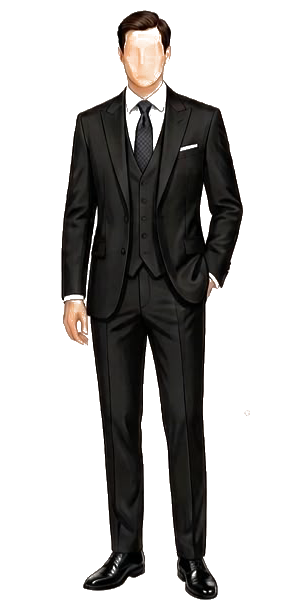
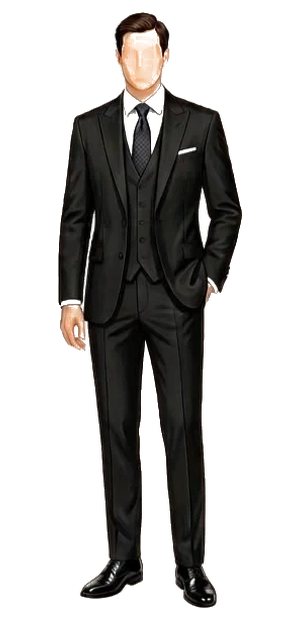
feat: velas con fuego vivo, esfera verde y negra, más movimiento y figuras premium

diff --git a/index.html b/index.html
@@ -2499,7 +2499,7 @@ body > footer{padding-bottom:120px !important}
   filter:drop-shadow(0 6px 14px rgba(18,18,18,.22));
   transform-origin:50% 100%;
   animation:paDcSway 5.2s ease-in-out infinite;will-change:transform}
-.pa-dc-fig:nth-child(2) img{animation-delay:-2.6s}
+.pa-dc-fig:nth-child(2) img{animation-delay:0s}
 @keyframes paDcSway{
   0%,100%{transform:translateY(0) rotate(-1.4deg)}
   50%    {transform:translateY(-8px) rotate(1.4deg)}
@@ -3352,13 +3352,13 @@ body::before{background-size:cover !important;background-position:center !import
 
 /* ═════ BRILLO ÓPTICO · negro, verde y oro ═════ */
 .kx-flare{position:absolute;left:var(--x,50%);top:var(--y,0);width:0;height:0;z-index:5;pointer-events:none;display:block;-webkit-text-fill-color:initial}
-.kx-flare b{position:absolute;left:0;top:0;display:block;width:calc(170px*var(--s,1));height:calc(170px*var(--s,1));
-  margin:calc(-85px*var(--s,1)) 0 0 calc(-85px*var(--s,1));background:url(assets/flare.webp) center/contain no-repeat;
-  opacity:.2;transform:scale(.7);animation:kxBloom var(--dur,9s) cubic-bezier(.45,0,.3,1) infinite;animation-delay:var(--del,0s)}
-.kx-flare.is-mini b{background-image:url(assets/flare-mini.webp);width:calc(58px*var(--s,1));height:calc(58px*var(--s,1));
-  margin:calc(-29px*var(--s,1)) 0 0 calc(-29px*var(--s,1));opacity:0;animation-name:kxTwinkle}
-@keyframes kxBloom{0%,36%{opacity:.2;transform:scale(.7)}48%{opacity:.95;transform:scale(1.06)}56%{opacity:.78;transform:scale(1)}74%,100%{opacity:.2;transform:scale(.7)}}
-@keyframes kxTwinkle{0%,42%{opacity:0;transform:scale(.3) rotate(-18deg)}51%{opacity:1;transform:scale(1) rotate(0)}62%,100%{opacity:0;transform:scale(.3) rotate(16deg)}}
+.kx-flare b{position:absolute;left:0;top:0;display:block;width:calc(220px*var(--s,1));height:calc(220px*var(--s,1));
+  margin:calc(-110px*var(--s,1)) 0 0 calc(-110px*var(--s,1));background:url(assets/flare.webp) center/contain no-repeat;
+  opacity:.5;transform:scale(.76);animation:kxBloom var(--dur,9s) cubic-bezier(.45,0,.3,1) infinite;animation-delay:var(--del,0s)}
+.kx-flare.is-mini b{background-image:url(assets/flare-mini.webp);width:calc(84px*var(--s,1));height:calc(84px*var(--s,1));
+  margin:calc(-42px*var(--s,1)) 0 0 calc(-42px*var(--s,1));opacity:0;animation-name:kxTwinkle}
+@keyframes kxBloom{0%,28%{opacity:.5;transform:scale(.76)}44%{opacity:1;transform:scale(1.14)}58%{opacity:.92;transform:scale(1)}78%,100%{opacity:.5;transform:scale(.76)}}
+@keyframes kxTwinkle{0%,26%{opacity:0;transform:scale(.3) rotate(-18deg)}42%{opacity:1;transform:scale(1.12) rotate(0)}56%{opacity:.95;transform:scale(1) rotate(5deg)}74%,100%{opacity:0;transform:scale(.3) rotate(16deg)}}
 
 .kx-card{border-color:transparent !important;-webkit-backdrop-filter:none !important;backdrop-filter:none !important}
 .kx-halo,.kx-rim,.kx-line,.kx-sheen{position:absolute;pointer-events:none;display:block;border-radius:inherit}
@@ -3445,7 +3445,7 @@ h2.foil-text,.ft-nms.foil-text{position:relative}
 .gm-ball{overflow:hidden;background:#06140D;box-shadow:0 0 0 1.5px #8C6A1C,0 0 0 2.5px #F2DC8F,0 0 0 3.5px #6E5216}
 .gm-ball canvas{position:absolute;inset:0;display:block;width:100%;height:100%}
 .gm-gloss{position:absolute;inset:0;border-radius:50%;pointer-events:none;
-  background:radial-gradient(circle at 33% 26%,rgba(255,252,235,.34),rgba(255,252,235,.05) 25%,transparent 43%),radial-gradient(circle at 50% 50%,transparent 62%,rgba(0,8,4,.5) 100%)}
+  background:radial-gradient(circle at 33% 26%,rgba(214,255,232,.2),rgba(214,255,232,.03) 26%,transparent 44%),radial-gradient(circle at 62% 66%,transparent 34%,rgba(0,4,2,.62) 100%)}
 .gm-orbit{position:absolute;left:31px;top:41px;width:0;height:0;opacity:0;transition:opacity 1.1s ease;animation:gmOrbita 16s linear infinite;animation-play-state:paused}
 .gm-orbit i{position:absolute;left:-1.5px;top:-1.5px;width:3px;height:3px;border-radius:50%;background:#FFF3C4;box-shadow:0 0 5px 1px rgba(212,175,55,.8);
   transform:rotate(var(--a)) translateY(var(--o));animation:gmEspejo 2.8s ease-in-out infinite;animation-delay:var(--e)}
@@ -3469,6 +3469,52 @@ h2.foil-text,.ft-nms.foil-text{position:relative}
   #musicBtn .gm-orbit,#musicBtn .gm-orbit i,#musicBtn .gm-glow,#musicBtn .gm-spark,#musicBtn .gm-feather{animation:none !important}
   .kx-flare b{opacity:.6;transform:none}.kx-flare.is-mini b{opacity:.5}.kit-head{display:none}
   .gm-feather,.it-time,.it-list .it-dot{transition:none}
+}
+
+/* ═════ VELAS VIVAS · footer ═════ */
+.vl,.vl-ch{position:absolute;pointer-events:none;display:block}
+.vl{left:var(--x);top:var(--y);width:var(--w);aspect-ratio:1;translate:-50% -50%}
+.vl>span{position:absolute;display:block}
+.vl-halo{left:-175%;top:-175%;width:450%;height:450%;border-radius:50%;background:radial-gradient(circle,rgba(255,198,116,.46) 0,rgba(255,164,74,.2) 27%,rgba(255,140,50,.06) 50%,transparent 69%)}
+.vl-disc{inset:-5%;border-radius:50%;background:radial-gradient(circle,rgba(255,246,220,.76) 0,rgba(255,228,176,.5) 58%,rgba(255,216,152,.66) 85%,transparent 100%)}
+.vl-cera{left:-62%;top:64%;width:224%;height:205%;border-radius:50%;background:radial-gradient(ellipse at 50% 14%,rgba(255,178,96,.46),rgba(255,150,70,.13) 50%,transparent 72%)}
+.vl-fl{left:-4%;bottom:30%;width:108%;height:132%;transform-origin:50% 92%;background:url(assets/llama.webp) center/100% 100% no-repeat}
+.vl-nu{left:21%;bottom:33%;width:58%;height:80%;transform-origin:50% 92%;background:url(assets/llama-nucleo.webp) center/100% 100% no-repeat}
+.vl .kx-flare{left:50%;top:-2%}
+.vl-ch{left:var(--x);top:var(--y);width:2px;height:2px;border-radius:50%;background:#FFE9B0;box-shadow:0 0 3px 1px rgba(255,170,70,.85);opacity:0;
+  animation:vlChispa var(--dur,6s) cubic-bezier(.3,.1,.5,1) infinite;animation-delay:var(--del,0s)}
+@keyframes vlChispa{0%{opacity:0;transform:translate3d(0,0,0) scale(1)}10%{opacity:1}42%{opacity:.8;transform:translate3d(var(--m),calc(var(--up)*.5),0) scale(.8)}72%,100%{opacity:0;transform:translate3d(var(--dx),var(--up),0) scale(.25)}}
+#footer.vl-off .vl-ch,#footer.kx-off .vl-ch{animation:none}
+@media (prefers-reduced-motion:reduce){.vl-ch{display:none}}
+
+/* Velas PNG: levitación y calor */
+.vel-w{isolation:isolate}
+.vel-w .vel{position:relative;z-index:1;filter:none}
+.vel-w .vl{z-index:2}.vel-w .kx-flare{z-index:3}
+.vl-png .vl-disc{display:none}
+.vl-png .vl-halo{left:-260%;top:-260%;width:620%;height:620%;background:radial-gradient(circle,rgba(255,206,122,.62) 0,rgba(255,164,70,.26) 26%,rgba(255,140,50,.07) 50%,transparent 68%)}
+.vl-png .vl-cera{left:-120%;top:70%;width:340%;height:340%;background:radial-gradient(ellipse at 50% 12%,rgba(255,190,104,.5),rgba(255,160,76,.14) 48%,transparent 70%)}
+.vl-png .vl-fl{left:12%;bottom:18%;width:76%;height:168%}
+.vl-png .vl-nu{left:30%;bottom:20%;width:40%;height:96%}
+.vel-calor{position:absolute;z-index:-1;left:-34%;right:-34%;top:-30%;bottom:-18%;pointer-events:none;border-radius:50%;
+  background:radial-gradient(ellipse 50% 48% at 50% 40%,rgba(255,176,84,.36) 0,rgba(255,146,60,.17) 42%,rgba(255,130,50,.05) 68%,transparent 100%)}
+
+/* Más vida en adornos y fondos */
+@media (prefers-reduced-motion:no-preference){
+  .vel-w{animation:velLevita 6.4s ease-in-out infinite alternate}
+  @keyframes velLevita{from{translate:0 5px;rotate:-.8deg}to{translate:0 -8px;rotate:.8deg}}
+  .fx-bg i{animation-name:fxDrift2;animation-duration:17s}
+  @keyframes fxDrift2{from{transform:translate3d(-3.6%,-2.4%,0) scale(1.03) rotate(-.7deg)}to{transform:translate3d(3.6%,2.4%,0) scale(1.11) rotate(.7deg)}}
+  .orn-float{animation-name:ornFloat2;animation-duration:5.6s;animation-timing-function:ease-in-out}
+  @keyframes ornFloat2{from{translate:-3px -11px;rotate:-2.6deg}to{translate:3px 11px;rotate:2.6deg}}
+  .orn-leaf{animation-name:ornLeaf2;animation-duration:4.8s}
+  @keyframes ornLeaf2{from{translate:-7px -15px;rotate:-10deg}to{translate:7px 15px;rotate:10deg}}
+  .orn-soft{animation:ornSoft2 8.5s ease-in-out infinite alternate}
+  .orn-soft:nth-of-type(2n){animation-delay:-3.4s}
+  @keyframes ornSoft2{from{translate:-7px -13px;rotate:-3.4deg}to{translate:7px 13px;rotate:3.4deg}}
+  .gui{animation:guiMece 6.8s ease-in-out infinite alternate}
+  @keyframes guiMece{from{translate:-50% -4px;rotate:-.9deg}to{translate:-50% 4px;rotate:.9deg}}
+  .kx-off .orn-soft,.kx-off .gui,.kx-off .vel-w{animation-play-state:paused}
 }
 </style>
 </head>
@@ -3825,14 +3871,14 @@ h2.foil-text,.ft-nms.foil-text{position:relative}
 
   <div class="pa-dc-figs">
     <figure class="pa-dc-fig">
-      <img src="caballero.png" alt="Caballero con traje formal" width="300" height="610" decoding="async">
+      <img src="caballero.png?v=2" alt="Caballero con traje formal" width="300" height="620" decoding="async">
       <figcaption>
         <span class="pa-dc-fig-label">Caballeros</span>
         <span class="pa-dc-fig-sub">Traje formal</span>
       </figcaption>
     </figure>
     <figure class="pa-dc-fig">
-      <img src="dama.png" alt="Dama con vestido formal" width="248" height="604" decoding="async">
+      <img src="dama.png?v=2" alt="Dama con vestido formal" width="300" height="620" decoding="async">
       <figcaption>
         <span class="pa-dc-fig-label">Damas</span>
         <span class="pa-dc-fig-sub">Vestido largo en tonos de jardín</span>
@@ -6203,7 +6249,7 @@ function initPadrinos(){
     f.className = 'kx-flare' + (mini ? ' is-mini' : '');
     f.setAttribute('aria-hidden', 'true');
     f.style.setProperty('--x', x); f.style.setProperty('--y', y); f.style.setProperty('--s', s || 1);
-    var dur = mini ? 7 + (n % 3) * 1.1 : 10 + (n % 3) * 1.3;
+    var dur = mini ? 5 + (n % 3) * .8 : 7 + (n % 3);
     f.style.setProperty('--dur', dur + 's');
     f.style.setProperty('--del', (-((n * .618034) % 1) * dur).toFixed(2) + 's');
     f.appendChild(b); p.appendChild(f); n++;
@@ -6222,21 +6268,21 @@ function initPadrinos(){
     capa(c, 'kx-halo'); capa(c, 'kx-sheen', true, k);
     if(!c.classList.contains('rsvp-card')) capa(c, 'kx-line');
     capa(c, 'kx-rim', true, k);
-    flare(c, '18px', '10px', .62);
-    flare(c, 'calc(100% - 18px)', 'calc(100% - 10px)', .8, true);
+    flare(c, '18px', '10px', .82);
+    flare(c, 'calc(100% - 18px)', 'calc(100% - 10px)', 1, true);
   }
   document.querySelectorAll('.loc-card,.story-card,.fam-grid,.fam-god,.cl-card,.rsvp-card,.gx-card,.rsvp-notice,.pa-hs-hotel').forEach(deco);
   /* Las tarjetas de hotel se crean después: se decoran al aparecer */
   var hsL = document.getElementById('paHsList');
   if(hsL) new MutationObserver(function(){ hsL.querySelectorAll('.pa-hs-hotel').forEach(function(c, i){ deco(c, i + 20); }); }).observe(hsL, { childList: true, subtree: true });
   document.querySelectorAll('h2.foil-text,.ft-nms.foil-text').forEach(function(t){
-    flare(t, '.72em', '.46em', .62, true);
-    flare(t, 'calc(100% - .55em)', '.52em', .4, true);
+    flare(t, '.72em', '.46em', .9, true);
+    flare(t, 'calc(100% - .55em)', '.52em', .62, true);
   });
   function nombres(){
     [['hN1', -.36], ['hN2', .38]].forEach(function(q){
       var e = document.getElementById(q[0]), w = e && e.closest('.h-name-wrap');
-      if(w && !w.querySelector('.kx-flare')) flare(w, 'calc(50% + ' + (e.offsetWidth * q[1]).toFixed(0) + 'px)', '34%', .7, true);
+      if(w && !w.querySelector('.kx-flare')) flare(w, 'calc(50% + ' + (e.offsetWidth * q[1]).toFixed(0) + 'px)', '34%', .95, true);
     });
   }
   if(document.fonts && document.fonts.ready) document.fonts.ready.then(nombres); else nombres();
@@ -6254,13 +6300,13 @@ function initPadrinos(){
     s.style.webkitMaskImage = s.style.maskImage = 'url(' + src + ')';
     i.style.setProperty('--del', (-((k * .618034) % 1) * 13).toFixed(2) + 's');
     s.appendChild(i); c.appendChild(s);
-    if(k % 2 === 0) flare(c, LUZ[m[1]][0], LUZ[m[1]][1], .72, true);
+    if(k % 2 === 0) flare(c, LUZ[m[1]][0], LUZ[m[1]][1], .95, true);
     im.after(c); glos.push(c);
   });
   document.querySelectorAll('img.vel').forEach(function(v){
     var w = document.createElement('span'); w.className = 'vel-w';
     v.parentNode.insertBefore(w, v); w.appendChild(v);
-    flare(w, '38%', '10%', .7, true);
+    flare(w, '38%', '10%', .95, true);
   });
 
   /* Pausa lo que no se ve */
@@ -6369,7 +6415,7 @@ function initPadrinos(){
     function azar(k){ var x = Math.sin(k * 127.1 + 311.7) * 43758.5453; return x - Math.floor(x); }
     var filas = [], total = 0, r, c;
     for(r = 0; r < ROWS; r++){
-      var lat = ((r + .5) / ROWS - .5) * PI, cols = Math.max(5, Math.round(ROWS * 1.7 * Math.cos(lat)));
+      var lat = ((r + .5) / ROWS - .5) * PI, cols = Math.max(5, Math.round(ROWS * 2 * Math.cos(lat)));
       filas.push({ lat: lat, cl: Math.cos(lat), sl: Math.sin(lat), cols: cols, base: total, of: r % 2 ? .5 : 0, par: r % 2 });
       total += cols * 2;
     }
@@ -6390,26 +6436,28 @@ function initPadrinos(){
       for(var k = 0; k < ROWS; k++){
         var w = filas[k];
         for(var e = 0; e < w.cols; e++) for(var tr = 0; tr < 2; tr++){
-          var id = w.base + e * 2 + tr, l = (e + .5 + (tr ? .23 : -.23) - w.of) / w.cols * TAU + t;
-          var jx = (a1[id] - .5) * .3, jy = (a2[id] - .5) * .3 + (tr ? .07 : -.07);
+          var id = w.base + e * 2 + tr, l = (e + .5 - w.of) / w.cols * TAU + t;
+          var jx = (a1[id] - .5) * .24, jy = (a2[id] - .5) * .24;
           var fx = w.cl * Math.sin(l) + jx, fy0 = w.sl + jy, fz0 = w.cl * Math.cos(l);
           var fy = fy0 * cB + fz0 * sB, fz = -fy0 * sB + fz0 * cB, vx = fx * cT + fy * sT, vy = -fx * sT + fy * cT;
           var d1 = Math.max(0, vx * L1[0] + vy * L1[1] + fz * L1[2]), d2 = Math.max(0, vx * L2[0] + vy * L2[1] + fz * L2[2]), d3 = Math.max(0, vx * L3[0] + vy * L3[1] + fz * L3[2]);
-          var s1 = Math.pow(d1, 30) * 1.45, s2 = Math.pow(d2, 26) * .95, s3 = Math.pow(d3, 12) * .42, am = .2 + a3[id] * a3[id] * .72;
-          R[id] = am * 14 + s1 * 255 + s2 * 240 + s3 * 30;
-          G[id] = am * 92 + s1 * 244 + s2 * 186 + s3 * 118;
-          B[id] = am * 52 + s1 * 196 + s2 * 70 + s3 * 66;
+          var s1 = Math.pow(d1, 34) * 1.05, s2 = Math.pow(d2, 30) * .62, s3 = Math.pow(d3, 14) * .2, am = .5 + a3[id] * .72;
+          var mez = .5 + .5 * Math.sin(l + w.lat * 1.7 + .6); mez = mez * mez * (3 - 2 * mez);
+          R[id] = am * (3 + mez * 20) + s1 * 178 + s2 * 62 + s3 * 16;
+          G[id] = am * (7 + mez * 112) + s1 * 238 + s2 * 188 + s3 * 92;
+          B[id] = am * (5 + mez * 66) + s1 * 196 + s2 * 126 + s3 * 58;
         }
       }
       var giro = t / TAU;
       for(var m = 0; m < N; m++){
         var h = filas[RI[m]], u = LO[m] - giro; u -= Math.floor(u);
         var cc = u * h.cols + h.of, ci = Math.floor(cc), fu = cc - ci, fv = FV[m]; ci = ci % h.cols;
-        var alt = (ci + h.par) % 2, tri = alt ? (fu + fv > 1 ? 1 : 0) : (fu > fv ? 1 : 0), dg = alt ? Math.abs(fu + fv - 1) : Math.abs(fu - fv);
+        var tri = 0, dg = 1;
         var ed = Math.min(1, Math.min(Math.min(fu, 1 - fu), Math.min(fv, 1 - fv), dg * .72) / .055), id2 = h.base + ci * 2 + tri, g = SH[m], o = I[m], f = 1 - ed;
-        D[o] = Math.min(255, R[id2] * g + CA[m] * 16 + f * 92 + 3);
-        D[o + 1] = Math.min(255, G[id2] * g + CA[m] * 76 + f * 72 + 10);
-        D[o + 2] = Math.min(255, B[id2] * g + CA[m] * 42 + f * 20 + 6);
+        g *= 1 - f * .62;
+        D[o] = Math.min(255, R[id2] * g + CA[m] * 3 + 2);
+        D[o + 1] = Math.min(255, G[id2] * g + CA[m] * 26 + 5);
+        D[o + 2] = Math.min(255, B[id2] * g + CA[m] * 16 + 4);
         D[o + 3] = AL[m];
       }
       ctx.putImageData(img, 0, 0);
@@ -6417,7 +6465,7 @@ function initPadrinos(){
   }
   var btn = document.getElementById('musicBtn'), cv = document.getElementById('gmCanvas');
   if(btn && cv){
-    var pinta = crearMotorGema(cv, 124, 11);
+    var pinta = crearMotorGema(cv, 124, 14);
     if(pinta){
       var TAU = Math.PI * 2, th = .6, vel = 0, obj = 0, lastT = 0, rf = 0, VEL = .82, visible = true;
       function loopG(now){
@@ -6440,6 +6488,90 @@ function initPadrinos(){
       sync();
     }
   }
+})();
+</script>
+<script>
+/* ═════ VELAS VIVAS: cada flama respira con su propio ruido y comparten la misma corriente de aire ═════ */
+(function(){
+  var foot = document.getElementById('footer'), capa = foot && foot.querySelector('.fx-bg i');
+  if(!capa) return;
+  var RM = window.matchMedia && matchMedia('(prefers-reduced-motion: reduce)').matches;
+  /* Posiciones medidas sobre las luces reales de la foto: x, y, ancho, con flama */
+  var P = [[31.6,72.4,6.6,1],[70.1,74.8,5.6,1],[50.3,76.9,4.8,1],[12.3,74.3,5.2,1],[21.8,69.3,5.2,1],[67.7,66.6,5.4,1],[34.6,65.7,5.6,1],
+           [58,67.3,5.4,0],[81,68.7,5.4,0],[53.1,62.2,5.8,0],[40.2,61.2,5.4,0],[60,61.3,5.6,0]];
+  function hija(p, c){ var e = document.createElement('span'); e.className = c; p.appendChild(e); return e; }
+  function crea(q, k, padre, png){
+    var v = document.createElement('span'); v.className = png ? 'vl vl-png' : 'vl';
+    v.style.setProperty('--x', q[0] + '%'); v.style.setProperty('--y', q[1] + '%'); v.style.setProperty('--w', q[2] + '%');
+    var o = { s: k * 7.31 + 1.7, r: q[0] / 100, halo: hija(v, 'vl-halo'), disc: hija(v, 'vl-disc'), f: q[3], k: png ? .42 : 1, host: png ? padre : foot };
+    if(q[3]){ o.cera = hija(v, 'vl-cera'); o.fl = hija(v, 'vl-fl'); o.nu = hija(v, 'vl-nu'); }
+    if(!png && (k === 0 || k === 1)){
+      var fl = hija(v, 'kx-flare'), b = document.createElement('b'), d = k ? 8.4 : 7;
+      fl.style.setProperty('--s', k ? .62 : .78); fl.style.setProperty('--dur', d + 's');
+      fl.style.setProperty('--del', (-((k * .618034 + .2) % 1) * d).toFixed(2) + 's');
+      fl.appendChild(b);
+    }
+    padre.appendChild(v);
+    return o;
+  }
+  var velas = P.map(function(q, k){ return crea(q, k, capa); }), hosts = [foot];
+  /* Velas PNG: levitan y sus tres flamas dan calor */
+  document.querySelectorAll('.vel-w').forEach(function(w, j){
+    var cal = document.createElement('span'); cal.className = 'vel-calor'; cal.setAttribute('aria-hidden', 'true'); w.insertBefore(cal, w.firstChild);
+    w.style.animationDelay = (-j * 2.3) + 's'; hosts.push(w);
+    var grupo = [[37.9, 11.8, 5.6, 1], [65.3, 32.2, 5.2, 1], [50.6, 51, 4.8, 1]].map(function(q, k){ return crea(q, k + 20 + j * 4, w, true); });
+    grupo[0].calor = cal; velas = velas.concat(grupo);
+  });
+  /* Chispas que suben desde las flamas, nunca juntas */
+  if(!RM) for(var c = 0; c < 8; c++){
+    var q = P[c % 7], ch = document.createElement('span'), dur = 5.4 + (c % 3) * 1.15, lado = c % 2 ? 1 : -1;
+    ch.className = 'vl-ch';
+    ch.style.setProperty('--x', (q[0] + lado * .5) + '%'); ch.style.setProperty('--y', (q[1] - 2.2) + '%');
+    ch.style.setProperty('--up', -(46 + (c * 17) % 44) + 'px');
+    ch.style.setProperty('--m', lado * (4 + c % 4) + 'px'); ch.style.setProperty('--dx', -lado * (3 + (c * 3) % 9) + 'px');
+    ch.style.setProperty('--dur', dur + 's'); ch.style.setProperty('--del', (-((c * .618034) % 1) * dur).toFixed(2) + 's');
+    capa.appendChild(ch);
+  }
+  function azar(n){ var x = Math.sin(n * 127.1 + 311.7) * 43758.5453; return x - Math.floor(x); }
+  function ruido(t){ var i = Math.floor(t), f = t - i; f = f * f * (3 - 2 * f); return azar(i) * (1 - f) + azar(i + 1) * f; }
+  function cuadro(t, todas){
+    for(var k = 0; k < velas.length; k++){
+      var o = velas[k], s = o.s;
+      if(!todas && !o.host.__ve) continue;
+      /* La corriente cruza la mesa: llega antes a un lado que al otro */
+      var ta = t - o.r * .7, base = ruido(ta * .22 + 40), racha = base > .6 ? Math.pow((base - .6) / .4, 2) : 0;
+      var aire = (ruido(ta * .55 + 90) - .5) * 1.5 + racha * (ruido(ta * 2.2 + 12) - .18) * 2.4;
+      var e = .56 * ruido(t * 1.5 + s) + .3 * ruido(t * 4.1 + s * 2) + .14 * ruido(t * 9.3 + s * 3);
+      e = Math.max(.12, (.32 + e * .92) - racha * .24);
+      o.halo.style.opacity = (.3 + e * .62).toFixed(3);
+      o.halo.style.transform = 'translate3d(0,0,0) scale(' + (.9 + e * .18).toFixed(3) + ')';
+      o.disc.style.opacity = (o.f ? .34 + e * .46 : .2 + e * .62).toFixed(3);
+      if(o.f){
+        var lean = (aire + (ruido(t * 2.6 + s * 1.4) - .5) * .9) * o.k;
+        if(o.calor){ o.calor.style.opacity = (.52 + e * .48).toFixed(3); o.calor.style.transform = 'scale(' + (.95 + e * .1).toFixed(3) + ')'; }
+        var sy = .78 + e * .4, sx = 1.12 - e * .24;
+        o.cera.style.opacity = (.34 + e * .62).toFixed(3);
+        o.fl.style.opacity = Math.min(1, .72 + e * .34).toFixed(3);
+        o.fl.style.transform = 'translate3d(' + (lean * .9).toFixed(2) + 'px,0,0) skewX(' + (-lean * 7.5).toFixed(2) + 'deg) scale(' + sx.toFixed(3) + ',' + sy.toFixed(3) + ')';
+        o.nu.style.opacity = Math.min(1, .46 + e * .56).toFixed(3);
+        o.nu.style.transform = 'translate3d(' + (lean * .55).toFixed(2) + 'px,0,0) skewX(' + (-lean * 4.6).toFixed(2) + 'deg) scale(' + (sx * .98).toFixed(3) + ',' + (.84 + e * .26).toFixed(3) + ')';
+      }
+    }
+  }
+  cuadro(3.2, true);
+  if(RM || !('IntersectionObserver' in window)) return;
+  var raf = 0;
+  function hay(){ return hosts.some(function(h){ return h.__ve; }); }
+  function loop(now){
+    raf = 0;
+    if(!hay() || document.hidden) return;
+    cuadro(now / 1000);
+    raf = requestAnimationFrame(loop);
+  }
+  function arranca(){ if(!raf && hay() && !document.hidden) raf = requestAnimationFrame(loop); }
+  var ioV = new IntersectionObserver(function(E){ E.forEach(function(x){ x.target.__ve = x.isIntersecting; }); foot.classList.toggle('vl-off', !foot.__ve); arranca(); }, { rootMargin: '60px 0px' });
+  hosts.forEach(function(h){ ioV.observe(h); });
+  document.addEventListener('visibilitychange', arranca);
 })();
 </script>
 </body>
